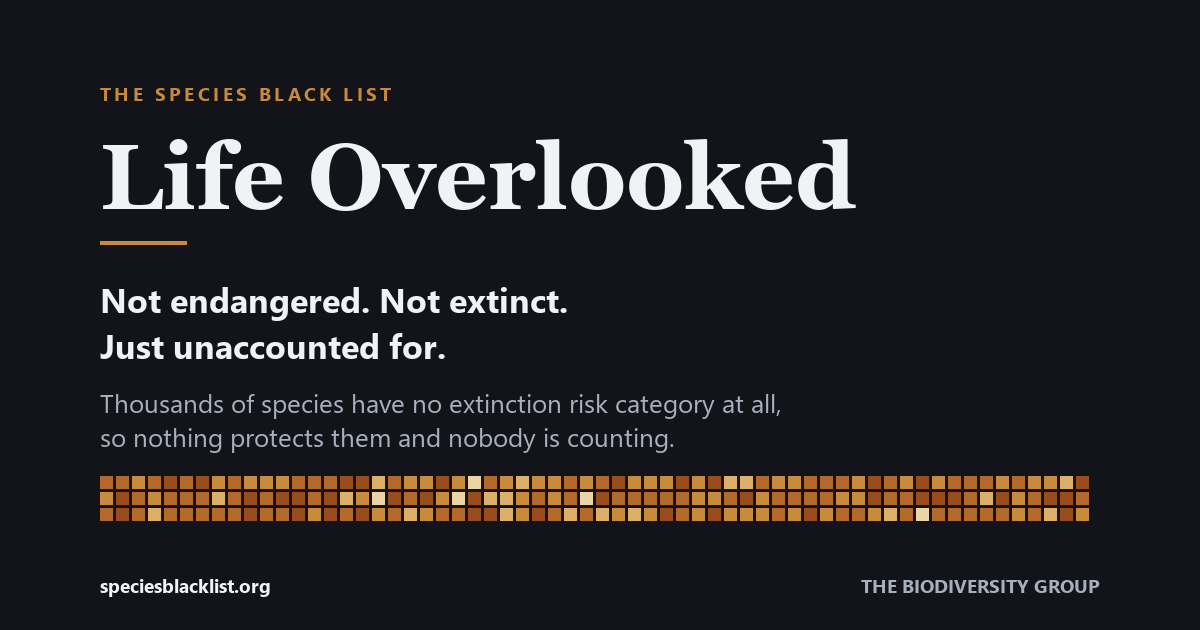
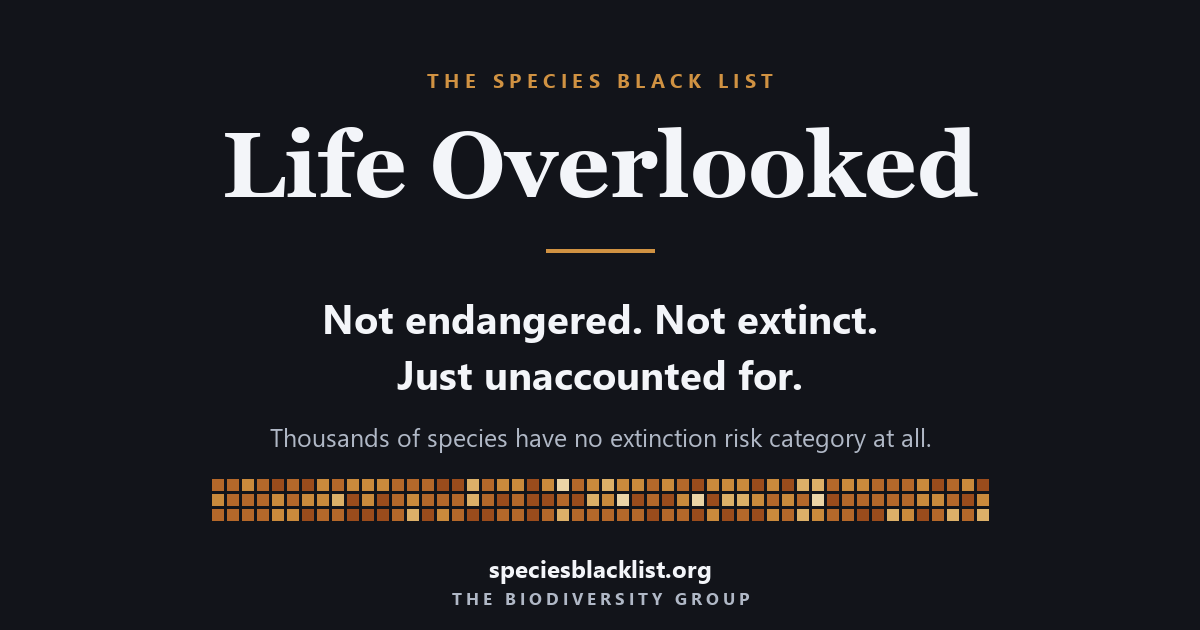
Share card redesigned for the crop, tile copy, donate button
The card was being used, but Facebook's mobile composer crops roughly 12% off
each side and scales up, so a left-aligned layout inside a 100px inset lost its
first and last words: "THE SPECIES BLACK LIST" showed as "ACK LIST" and "THE
BIODIVERSITY GROUP" as "THE B". A card missing its beginning reads as a
screenshot of something else, which is exactly how it looked.

Everything is now centred inside a 780px band, so a crop taking a fifth off each
side keeps the whole message and degrades symmetrically. The generator measures
each line and warns when one exceeds the band, which immediately caught my own
headline at 853px, and warns when the mark band would collide with the footer,
which caught the copy being a line too long. Both were fixed before the file was
written rather than after somebody saw it in a feed.

Black List tile: "that", not "which". The clause defines which species are meant,
so it is restrictive, and US usage takes "that" with no comma. Names the IUCN
explicitly and says the page is aimed mainly at researchers and IUCN members.

Card bodies now start at the same height. One eyebrow wrapped to two lines and
pushed its heading and body down, so the row read as misaligned; the space is
reserved rather than the label shortened, which would only break again on a
narrower screen.

A real donate button at the foot of the support box, centred and in the warm
brand colour so it reads as the primary action rather than another link. It is a
[…]

diff --git a/index.html b/index.html
@@ -509,12 +509,19 @@
             transition:background .15s; }
   .bigbtn:hover, .bigbtn:focus-visible { background:var(--t4); color:#fff; }
 
+  .gidonate { text-align:center; margin:var(--s3) 0 .2rem; }
+  .bigbtn.donate { background:var(--t4); font-size:1.06rem; padding:1rem 2.4rem; }
+  .bigbtn.donate:hover, .bigbtn.donate:focus-visible { background:var(--t5); }
+
   /* ---- site overview cards ------------------------------------------------ */
   .homecards { display:grid; gap:var(--s2); margin:var(--s3) 0 var(--s4);
                grid-template-columns:repeat(auto-fit,minmax(15rem,1fr)); }
   .homecard { background:var(--surface); border:1px solid var(--rule);
               border-top:3px solid var(--t3); padding:1.2rem 1.3rem; }
-  .homecard h4 { font-size:1.1rem; margin:.15rem 0 .5rem; }
+  .homecard .eyebrow { min-height:2.6em; display:flex; align-items:flex-start;
+                       justify-content:center; }
+  .homecard h4 { font-size:1.1rem; margin:.15rem 0 .5rem; min-height:2.6rem;
+                 display:flex; align-items:flex-start; justify-content:center; }
   .homecard h4 a { text-decoration:none; }
   .homecard h4 a:hover { text-decoration:underline; }
   .homecard p { font-family:var(--sans); font-size:.87rem; color:var(--ink-2);
@@ -1238,10 +1245,11 @@
     <article class="homecard">
       <p class="eyebrow">The core list</p>
       <h4><a href="/black-list/" data-goto="overview">The Black List</a></h4>
-      <p>Species the Red List has assessed and been unable to categorize, or has never
-        assessed at all, ranked by how narrowly restricted the published record says they
-        are. If a species here turns out to be in trouble, this is where you would have
-        seen it first.</p>
+      <p>Species that the IUCN Red List has assessed and been unable to categorize, or
+        has never assessed at all, ranked by how narrowly restricted the published record
+        says they are. If a species here turns out to be in trouble, this is where you
+        would have seen it first. This page is aimed mostly at researchers and IUCN
+        members.</p>
     </article>
 
     <article class="homecard">

diff --git a/get-involved/index.html b/get-involved/index.html
@@ -509,12 +509,19 @@
             transition:background .15s; }
   .bigbtn:hover, .bigbtn:focus-visible { background:var(--t4); color:#fff; }
 
+  .gidonate { text-align:center; margin:var(--s3) 0 .2rem; }
+  .bigbtn.donate { background:var(--t4); font-size:1.06rem; padding:1rem 2.4rem; }
+  .bigbtn.donate:hover, .bigbtn.donate:focus-visible { background:var(--t5); }
+
   /* ---- site overview cards ------------------------------------------------ */
   .homecards { display:grid; gap:var(--s2); margin:var(--s3) 0 var(--s4);
                grid-template-columns:repeat(auto-fit,minmax(15rem,1fr)); }
   .homecard { background:var(--surface); border:1px solid var(--rule);
               border-top:3px solid var(--t3); padding:1.2rem 1.3rem; }
-  .homecard h4 { font-size:1.1rem; margin:.15rem 0 .5rem; }
+  .homecard .eyebrow { min-height:2.6em; display:flex; align-items:flex-start;
+                       justify-content:center; }
+  .homecard h4 { font-size:1.1rem; margin:.15rem 0 .5rem; min-height:2.6rem;
+                 display:flex; align-items:flex-start; justify-content:center; }
   .homecard h4 a { text-decoration:none; }
   .homecard h4 a:hover { text-decoration:underline; }
   .homecard p { font-family:var(--sans); font-size:.87rem; color:var(--ink-2);
@@ -1291,6 +1298,9 @@
       </ul>
       <p>If your money or your time is better placed with another group working on
         neglected species, place it there instead. The point is the species, not us.</p>
+      <p class="gidonate"><a class="bigbtn donate"
+        href="https://biodiversitygroup.org/donate/" target="_blank"
+        rel="noopener">Donate to The Biodiversity Group</a></p>
     </div>
 
     <div class="giend">

diff --git a/black-list/index.html b/black-list/index.html
@@ -509,12 +509,19 @@
             transition:background .15s; }
   .bigbtn:hover, .bigbtn:focus-visible { background:var(--t4); color:#fff; }
 
+  .gidonate { text-align:center; margin:var(--s3) 0 .2rem; }
+  .bigbtn.donate { background:var(--t4); font-size:1.06rem; padding:1rem 2.4rem; }
+  .bigbtn.donate:hover, .bigbtn.donate:focus-visible { background:var(--t5); }
+
   /* ---- site overview cards ------------------------------------------------ */
   .homecards { display:grid; gap:var(--s2); margin:var(--s3) 0 var(--s4);
                grid-template-columns:repeat(auto-fit,minmax(15rem,1fr)); }
   .homecard { background:var(--surface); border:1px solid var(--rule);
               border-top:3px solid var(--t3); padding:1.2rem 1.3rem; }
-  .homecard h4 { font-size:1.1rem; margin:.15rem 0 .5rem; }
+  .homecard .eyebrow { min-height:2.6em; display:flex; align-items:flex-start;
+                       justify-content:center; }
+  .homecard h4 { font-size:1.1rem; margin:.15rem 0 .5rem; min-height:2.6rem;
+                 display:flex; align-items:flex-start; justify-content:center; }
   .homecard h4 a { text-decoration:none; }
   .homecard h4 a:hover { text-decoration:underline; }
   .homecard p { font-family:var(--sans); font-size:.87rem; color:var(--ink-2);

diff --git a/lost-species/index.html b/lost-species/index.html
@@ -509,12 +509,19 @@
             transition:background .15s; }
   .bigbtn:hover, .bigbtn:focus-visible { background:var(--t4); color:#fff; }
 
+  .gidonate { text-align:center; margin:var(--s3) 0 .2rem; }
+  .bigbtn.donate { background:var(--t4); font-size:1.06rem; padding:1rem 2.4rem; }
+  .bigbtn.donate:hover, .bigbtn.donate:focus-visible { background:var(--t5); }
+
   /* ---- site overview cards ------------------------------------------------ */
   .homecards { display:grid; gap:var(--s2); margin:var(--s3) 0 var(--s4);
                grid-template-columns:repeat(auto-fit,minmax(15rem,1fr)); }
   .homecard { background:var(--surface); border:1px solid var(--rule);
               border-top:3px solid var(--t3); padding:1.2rem 1.3rem; }
-  .homecard h4 { font-size:1.1rem; margin:.15rem 0 .5rem; }
+  .homecard .eyebrow { min-height:2.6em; display:flex; align-items:flex-start;
+                       justify-content:center; }
+  .homecard h4 { font-size:1.1rem; margin:.15rem 0 .5rem; min-height:2.6rem;
+                 display:flex; align-items:flex-start; justify-content:center; }
   .homecard h4 a { text-decoration:none; }
   .homecard h4 a:hover { text-decoration:underline; }
   .homecard p { font-family:var(--sans); font-size:.87rem; color:var(--ink-2);

diff --git a/map/index.html b/map/index.html
@@ -509,12 +509,19 @@
             transition:background .15s; }
   .bigbtn:hover, .bigbtn:focus-visible { background:var(--t4); color:#fff; }
 
+  .gidonate { text-align:center; margin:var(--s3) 0 .2rem; }
+  .bigbtn.donate { background:var(--t4); font-size:1.06rem; padding:1rem 2.4rem; }
+  .bigbtn.donate:hover, .bigbtn.donate:focus-visible { background:var(--t5); }
+
   /* ---- site overview cards ------------------------------------------------ */
   .homecards { display:grid; gap:var(--s2); margin:var(--s3) 0 var(--s4);
                grid-template-columns:repeat(auto-fit,minmax(15rem,1fr)); }
   .homecard { background:var(--surface); border:1px solid var(--rule);
               border-top:3px solid var(--t3); padding:1.2rem 1.3rem; }
-  .homecard h4 { font-size:1.1rem; margin:.15rem 0 .5rem; }
+  .homecard .eyebrow { min-height:2.6em; display:flex; align-items:flex-start;
+                       justify-content:center; }
+  .homecard h4 { font-size:1.1rem; margin:.15rem 0 .5rem; min-height:2.6rem;
+                 display:flex; align-items:flex-start; justify-content:center; }
   .homecard h4 a { text-decoration:none; }
   .homecard h4 a:hover { text-decoration:underline; }
   .homecard p { font-family:var(--sans); font-size:.87rem; color:var(--ink-2);

diff --git a/methods/index.html b/methods/index.html
@@ -509,12 +509,19 @@
             transition:background .15s; }
   .bigbtn:hover, .bigbtn:focus-visible { background:var(--t4); color:#fff; }
 
+  .gidonate { text-align:center; margin:var(--s3) 0 .2rem; }
+  .bigbtn.donate { background:var(--t4); font-size:1.06rem; padding:1rem 2.4rem; }
+  .bigbtn.donate:hover, .bigbtn.donate:focus-visible { background:var(--t5); }
+
   /* ---- site overview cards ------------------------------------------------ */
   .homecards { display:grid; gap:var(--s2); margin:var(--s3) 0 var(--s4);
                grid-template-columns:repeat(auto-fit,minmax(15rem,1fr)); }
   .homecard { background:var(--surface); border:1px solid var(--rule);
               border-top:3px solid var(--t3); padding:1.2rem 1.3rem; }
-  .homecard h4 { font-size:1.1rem; margin:.15rem 0 .5rem; }
+  .homecard .eyebrow { min-height:2.6em; display:flex; align-items:flex-start;
+                       justify-content:center; }
+  .homecard h4 { font-size:1.1rem; margin:.15rem 0 .5rem; min-height:2.6rem;
+                 display:flex; align-items:flex-start; justify-content:center; }
   .homecard h4 a { text-decoration:none; }
   .homecard h4 a:hover { text-decoration:underline; }
   .homecard p { font-family:var(--sans); font-size:.87rem; color:var(--ink-2);

diff --git a/new-species/index.html b/new-species/index.html
@@ -509,12 +509,19 @@
             transition:background .15s; }
   .bigbtn:hover, .bigbtn:focus-visible { background:var(--t4); color:#fff; }
 
+  .gidonate { text-align:center; margin:var(--s3) 0 .2rem; }
+  .bigbtn.donate { background:var(--t4); font-size:1.06rem; padding:1rem 2.4rem; }
+  .bigbtn.donate:hover, .bigbtn.donate:focus-visible { background:var(--t5); }
+
   /* ---- site overview cards ------------------------------------------------ */
   .homecards { display:grid; gap:var(--s2); margin:var(--s3) 0 var(--s4);
                grid-template-columns:repeat(auto-fit,minmax(15rem,1fr)); }
   .homecard { background:var(--surface); border:1px solid var(--rule);
               border-top:3px solid var(--t3); padding:1.2rem 1.3rem; }
-  .homecard h4 { font-size:1.1rem; margin:.15rem 0 .5rem; }
+  .homecard .eyebrow { min-height:2.6em; display:flex; align-items:flex-start;
+                       justify-content:center; }
+  .homecard h4 { font-size:1.1rem; margin:.15rem 0 .5rem; min-height:2.6rem;
+                 display:flex; align-items:flex-start; justify-content:center; }
   .homecard h4 a { text-decoration:none; }
   .homecard h4 a:hover { text-decoration:underline; }
   .homecard p { font-family:var(--sans); font-size:.87rem; color:var(--ink-2);

diff --git a/rediscoveries/index.html b/rediscoveries/index.html
@@ -509,12 +509,19 @@
             transition:background .15s; }
   .bigbtn:hover, .bigbtn:focus-visible { background:var(--t4); color:#fff; }
 
+  .gidonate { text-align:center; margin:var(--s3) 0 .2rem; }
+  .bigbtn.donate { background:var(--t4); font-size:1.06rem; padding:1rem 2.4rem; }
+  .bigbtn.donate:hover, .bigbtn.donate:focus-visible { background:var(--t5); }
+
   /* ---- site overview cards ------------------------------------------------ */
   .homecards { display:grid; gap:var(--s2); margin:var(--s3) 0 var(--s4);
                grid-template-columns:repeat(auto-fit,minmax(15rem,1fr)); }
   .homecard { background:var(--surface); border:1px solid var(--rule);
               border-top:3px solid var(--t3); padding:1.2rem 1.3rem; }
-  .homecard h4 { font-size:1.1rem; margin:.15rem 0 .5rem; }
+  .homecard .eyebrow { min-height:2.6em; display:flex; align-items:flex-start;
+                       justify-content:center; }
+  .homecard h4 { font-size:1.1rem; margin:.15rem 0 .5rem; min-height:2.6rem;
+                 display:flex; align-items:flex-start; justify-content:center; }
   .homecard h4 a { text-decoration:none; }
   .homecard h4 a:hover { text-decoration:underline; }
   .homecard p { font-family:var(--sans); font-size:.87rem; color:var(--ink-2);

diff --git a/register/index.html b/register/index.html
@@ -509,12 +509,19 @@
             transition:background .15s; }
   .bigbtn:hover, .bigbtn:focus-visible { background:var(--t4); color:#fff; }
 
+  .gidonate { text-align:center; margin:var(--s3) 0 .2rem; }
+  .bigbtn.donate { background:var(--t4); font-size:1.06rem; padding:1rem 2.4rem; }
+  .bigbtn.donate:hover, .bigbtn.donate:focus-visible { background:var(--t5); }
+
   /* ---- site overview cards ------------------------------------------------ */
   .homecards { display:grid; gap:var(--s2); margin:var(--s3) 0 var(--s4);
                grid-template-columns:repeat(auto-fit,minmax(15rem,1fr)); }
   .homecard { background:var(--surface); border:1px solid var(--rule);
               border-top:3px solid var(--t3); padding:1.2rem 1.3rem; }
-  .homecard h4 { font-size:1.1rem; margin:.15rem 0 .5rem; }
+  .homecard .eyebrow { min-height:2.6em; display:flex; align-items:flex-start;
+                       justify-content:center; }
+  .homecard h4 { font-size:1.1rem; margin:.15rem 0 .5rem; min-height:2.6rem;
+                 display:flex; align-items:flex-start; justify-content:center; }
   .homecard h4 a { text-decoration:none; }
   .homecard h4 a:hover { text-decoration:underline; }
   .homecard p { font-family:var(--sans); font-size:.87rem; color:var(--ink-2);

diff --git a/sites/index.html b/sites/index.html
@@ -509,12 +509,19 @@
             transition:background .15s; }
   .bigbtn:hover, .bigbtn:focus-visible { background:var(--t4); color:#fff; }
 
+  .gidonate { text-align:center; margin:var(--s3) 0 .2rem; }
+  .bigbtn.donate { background:var(--t4); font-size:1.06rem; padding:1rem 2.4rem; }
+  .bigbtn.donate:hover, .bigbtn.donate:focus-visible { background:var(--t5); }
+
   /* ---- site overview cards ------------------------------------------------ */
   .homecards { display:grid; gap:var(--s2); margin:var(--s3) 0 var(--s4);
                grid-template-columns:repeat(auto-fit,minmax(15rem,1fr)); }
   .homecard { background:var(--surface); border:1px solid var(--rule);
               border-top:3px solid var(--t3); padding:1.2rem 1.3rem; }
-  .homecard h4 { font-size:1.1rem; margin:.15rem 0 .5rem; }
+  .homecard .eyebrow { min-height:2.6em; display:flex; align-items:flex-start;
+                       justify-content:center; }
+  .homecard h4 { font-size:1.1rem; margin:.15rem 0 .5rem; min-height:2.6rem;
+                 display:flex; align-items:flex-start; justify-content:center; }
   .homecard h4 a { text-decoration:none; }
   .homecard h4 a:hover { text-decoration:underline; }
   .homecard p { font-family:var(--sans); font-size:.87rem; color:var(--ink-2);
